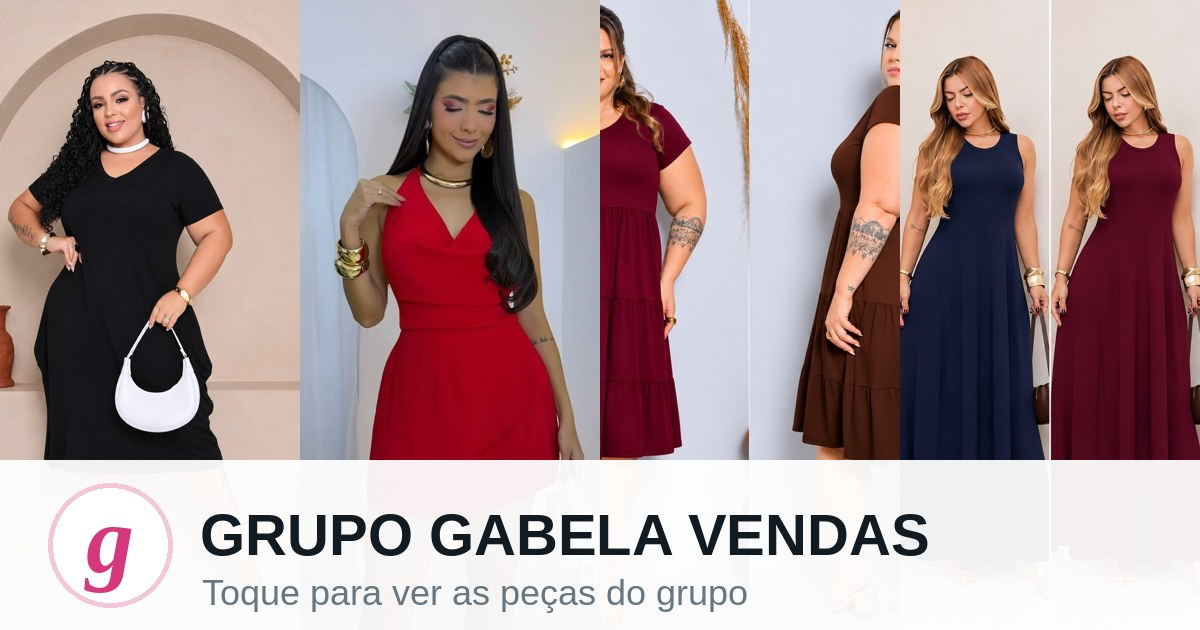
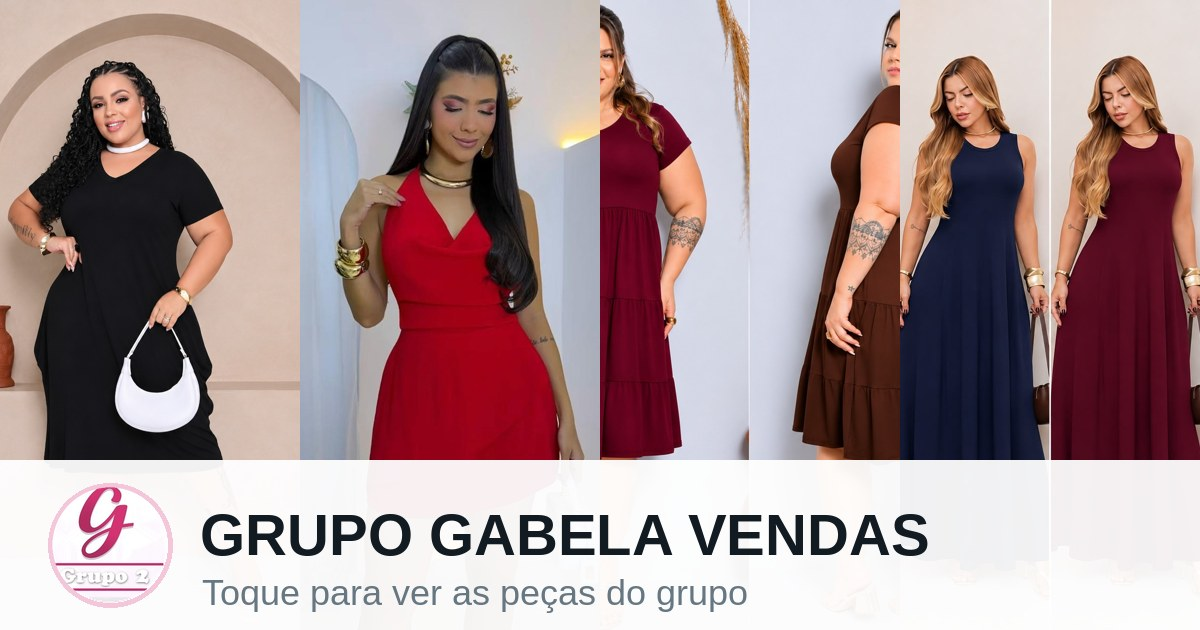
Grupo: foto do grupo e nomes de clientes no topo

Changed region(s): [[0.0308, 0.754, 0.1233, 0.9651]]

diff --git a/grupo/index.html b/grupo/index.html
@@ -19,7 +19,7 @@ header{position:sticky;top:0;z-index:5;background:linear-gradient(#F4EFE7f2 70%,
 .barra{display:flex;align-items:center;gap:10px;max-width:620px;margin:0 auto}
 .volta{display:grid;place-items:center;width:52px;height:52px;border-radius:50%;background:#fff;box-shadow:0 1px 4px #0000001a;flex:none}
 .pilula{flex:1;min-width:0;display:flex;align-items:center;gap:10px;background:#fff;border-radius:999px;padding:5px 16px 5px 5px;box-shadow:0 1px 4px #0000001a}
-.av{width:44px;height:44px;border-radius:50%;background:#fff;border:2px solid #F4C6DA;color:#D6377D;display:grid;place-items:center;font:italic 700 26px/1 Georgia,serif;flex:none}
+.av{width:46px;height:46px;border-radius:50%;object-fit:cover;background:#fff;color:#D6377D;display:grid;place-items:center;font:italic 700 26px/1 Georgia,serif;flex:none}
 .nm{flex:1;min-width:0}
 .nome{font-weight:700;font-size:18px;color:#111B21;text-transform:uppercase;line-height:1.2;white-space:nowrap;overflow:hidden;text-overflow:ellipsis}
 .st{font-size:14px;color:#667781;white-space:nowrap;overflow:hidden;text-overflow:ellipsis}
@@ -69,7 +69,7 @@ body.selecionando .zap{display:none}
 .fim{text-align:center;margin:18px auto;max-width:92%;background:#fffffff2;border-radius:8px;padding:10px;color:#54656F;font-size:16px}
 </style></head><body>
 <header>
-<div class="barra"><span class="volta"><svg viewBox="0 0 24 24" width="26" height="26" aria-hidden="true"><path fill="none" stroke="#111B21" stroke-width="2.4" stroke-linecap="round" stroke-linejoin="round" d="M15 4l-8 8 8 8"/></svg></span><div class="pilula"><div class="av">g</div><div class="nm"><div class="nome">Grupo Gabela Vendas</div><div class="st">Gabi, Carol, Bia, Lina, Márcia, Vanessa, Você</div></div></div></div>
+<div class="barra"><span class="volta"><svg viewBox="0 0 24 24" width="26" height="26" aria-hidden="true"><path fill="none" stroke="#111B21" stroke-width="2.4" stroke-linecap="round" stroke-linejoin="round" d="M15 4l-8 8 8 8"/></svg></span><div class="pilula"><img class="av" src="/grupo/avatar.png" alt=""><div class="nm"><div class="nome">Grupo Gabela Vendas</div><div class="st">Maria, Angela, Juliana, Patrícia, Fernanda, Cláudia, Rosângela, Você</div></div></div></div>
 <div class="sel"><button type="button" id="sair" aria-label="Cancelar"><svg viewBox="0 0 24 24" width="24" height="24" aria-hidden="true"><path fill="#111B21" d="M20 11H7.8l5.6-5.6L12 4l-8 8 8 8 1.4-1.4L7.8 13H20z"/></svg></button><span class="qt" id="qt">1</span><button type="button" class="mandar" id="mandar"><svg viewBox="0 0 24 24" width="24" height="24" aria-hidden="true"><path fill="#fff" d="M13.5 7.2V3.8a.6.6 0 0 1 1-.45l7 6.6a.6.6 0 0 1 0 .9l-7 6.6a.6.6 0 0 1-1-.45v-3.3c-4.9 0-8.2 1.5-10.7 4.9-.3.4-.9.15-.8-.3 1-5.2 4.3-10.3 11.5-11.1z"/></svg> Encaminhar</button></div>
 <nav class="pills"><a href="#novidades" id="menunov" class="pnov">🆕 Novidades</a><a href="#s0">Vestidos e macacões</a><a href="#s1">Shorts e saias</a><a href="#s2">Blusas</a><a href="#s3">Jeans feminino</a><a href="#s4">Calças e leggings</a><a href="#s5">Conjuntos</a><a href="#s6">Masculino</a><a href="#s7">Tênis e papetes</a><a href="#s8">Bolsas</a></nav>
 </header>

diff --git a/index.html b/index.html
@@ -19,7 +19,7 @@ header{position:sticky;top:0;z-index:5;background:linear-gradient(#F4EFE7f2 70%,
 .barra{display:flex;align-items:center;gap:10px;max-width:620px;margin:0 auto}
 .volta{display:grid;place-items:center;width:52px;height:52px;border-radius:50%;background:#fff;box-shadow:0 1px 4px #0000001a;flex:none}
 .pilula{flex:1;min-width:0;display:flex;align-items:center;gap:10px;background:#fff;border-radius:999px;padding:5px 16px 5px 5px;box-shadow:0 1px 4px #0000001a}
-.av{width:44px;height:44px;border-radius:50%;background:#fff;border:2px solid #F4C6DA;color:#D6377D;display:grid;place-items:center;font:italic 700 26px/1 Georgia,serif;flex:none}
+.av{width:46px;height:46px;border-radius:50%;object-fit:cover;background:#fff;color:#D6377D;display:grid;place-items:center;font:italic 700 26px/1 Georgia,serif;flex:none}
 .nm{flex:1;min-width:0}
 .nome{font-weight:700;font-size:18px;color:#111B21;text-transform:uppercase;line-height:1.2;white-space:nowrap;overflow:hidden;text-overflow:ellipsis}
 .st{font-size:14px;color:#667781;white-space:nowrap;overflow:hidden;text-overflow:ellipsis}
@@ -69,7 +69,7 @@ body.selecionando .zap{display:none}
 .fim{text-align:center;margin:18px auto;max-width:92%;background:#fffffff2;border-radius:8px;padding:10px;color:#54656F;font-size:16px}
 </style></head><body>
 <header>
-<div class="barra"><span class="volta"><svg viewBox="0 0 24 24" width="26" height="26" aria-hidden="true"><path fill="none" stroke="#111B21" stroke-width="2.4" stroke-linecap="round" stroke-linejoin="round" d="M15 4l-8 8 8 8"/></svg></span><div class="pilula"><div class="av">g</div><div class="nm"><div class="nome">Grupo Gabela Vendas</div><div class="st">Gabi, Carol, Bia, Lina, Márcia, Vanessa, Você</div></div></div></div>
+<div class="barra"><span class="volta"><svg viewBox="0 0 24 24" width="26" height="26" aria-hidden="true"><path fill="none" stroke="#111B21" stroke-width="2.4" stroke-linecap="round" stroke-linejoin="round" d="M15 4l-8 8 8 8"/></svg></span><div class="pilula"><img class="av" src="/grupo/avatar.png" alt=""><div class="nm"><div class="nome">Grupo Gabela Vendas</div><div class="st">Maria, Angela, Juliana, Patrícia, Fernanda, Cláudia, Rosângela, Você</div></div></div></div>
 <div class="sel"><button type="button" id="sair" aria-label="Cancelar"><svg viewBox="0 0 24 24" width="24" height="24" aria-hidden="true"><path fill="#111B21" d="M20 11H7.8l5.6-5.6L12 4l-8 8 8 8 1.4-1.4L7.8 13H20z"/></svg></button><span class="qt" id="qt">1</span><button type="button" class="mandar" id="mandar"><svg viewBox="0 0 24 24" width="24" height="24" aria-hidden="true"><path fill="#fff" d="M13.5 7.2V3.8a.6.6 0 0 1 1-.45l7 6.6a.6.6 0 0 1 0 .9l-7 6.6a.6.6 0 0 1-1-.45v-3.3c-4.9 0-8.2 1.5-10.7 4.9-.3.4-.9.15-.8-.3 1-5.2 4.3-10.3 11.5-11.1z"/></svg> Encaminhar</button></div>
 <nav class="pills"><a href="#novidades" id="menunov" class="pnov">🆕 Novidades</a><a href="#s0">Vestidos e macacões</a><a href="#s1">Shorts e saias</a><a href="#s2">Blusas</a><a href="#s3">Jeans feminino</a><a href="#s4">Calças e leggings</a><a href="#s5">Conjuntos</a><a href="#s6">Masculino</a><a href="#s7">Tênis e papetes</a><a href="#s8">Bolsas</a></nav>
 </header>

diff --git a/teste/jeito-do-grupo.html b/teste/jeito-do-grupo.html
@@ -19,7 +19,7 @@ header{position:sticky;top:0;z-index:5;background:linear-gradient(#F4EFE7f2 70%,
 .barra{display:flex;align-items:center;gap:10px;max-width:620px;margin:0 auto}
 .volta{display:grid;place-items:center;width:52px;height:52px;border-radius:50%;background:#fff;box-shadow:0 1px 4px #0000001a;flex:none}
 .pilula{flex:1;min-width:0;display:flex;align-items:center;gap:10px;background:#fff;border-radius:999px;padding:5px 16px 5px 5px;box-shadow:0 1px 4px #0000001a}
-.av{width:44px;height:44px;border-radius:50%;background:#fff;border:2px solid #F4C6DA;color:#D6377D;display:grid;place-items:center;font:italic 700 26px/1 Georgia,serif;flex:none}
+.av{width:46px;height:46px;border-radius:50%;object-fit:cover;background:#fff;color:#D6377D;display:grid;place-items:center;font:italic 700 26px/1 Georgia,serif;flex:none}
 .nm{flex:1;min-width:0}
 .nome{font-weight:700;font-size:18px;color:#111B21;text-transform:uppercase;line-height:1.2;white-space:nowrap;overflow:hidden;text-overflow:ellipsis}
 .st{font-size:14px;color:#667781;white-space:nowrap;overflow:hidden;text-overflow:ellipsis}
@@ -69,7 +69,7 @@ body.selecionando .zap{display:none}
 .fim{text-align:center;margin:18px auto;max-width:92%;background:#fffffff2;border-radius:8px;padding:10px;color:#54656F;font-size:16px}
 </style></head><body>
 <header>
-<div class="barra"><span class="volta"><svg viewBox="0 0 24 24" width="26" height="26" aria-hidden="true"><path fill="none" stroke="#111B21" stroke-width="2.4" stroke-linecap="round" stroke-linejoin="round" d="M15 4l-8 8 8 8"/></svg></span><div class="pilula"><div class="av">g</div><div class="nm"><div class="nome">Grupo Gabela Vendas</div><div class="st">Gabi, Carol, Bia, Lina, Márcia, Vanessa, Você</div></div></div></div>
+<div class="barra"><span class="volta"><svg viewBox="0 0 24 24" width="26" height="26" aria-hidden="true"><path fill="none" stroke="#111B21" stroke-width="2.4" stroke-linecap="round" stroke-linejoin="round" d="M15 4l-8 8 8 8"/></svg></span><div class="pilula"><img class="av" src="/grupo/avatar.png" alt=""><div class="nm"><div class="nome">Grupo Gabela Vendas</div><div class="st">Maria, Angela, Juliana, Patrícia, Fernanda, Cláudia, Rosângela, Você</div></div></div></div>
 <div class="sel"><button type="button" id="sair" aria-label="Cancelar"><svg viewBox="0 0 24 24" width="24" height="24" aria-hidden="true"><path fill="#111B21" d="M20 11H7.8l5.6-5.6L12 4l-8 8 8 8 1.4-1.4L7.8 13H20z"/></svg></button><span class="qt" id="qt">1</span><button type="button" class="mandar" id="mandar"><svg viewBox="0 0 24 24" width="24" height="24" aria-hidden="true"><path fill="#fff" d="M13.5 7.2V3.8a.6.6 0 0 1 1-.45l7 6.6a.6.6 0 0 1 0 .9l-7 6.6a.6.6 0 0 1-1-.45v-3.3c-4.9 0-8.2 1.5-10.7 4.9-.3.4-.9.15-.8-.3 1-5.2 4.3-10.3 11.5-11.1z"/></svg> Encaminhar</button></div>
 <nav class="pills"><a href="#novidades" id="menunov" class="pnov">🆕 Novidades</a><a href="#s0">Vestidos e macacões</a><a href="#s1">Shorts e saias</a><a href="#s2">Blusas</a><a href="#s3">Jeans feminino</a><a href="#s4">Calças e leggings</a><a href="#s5">Conjuntos</a><a href="#s6">Masculino</a><a href="#s7">Tênis e papetes</a><a href="#s8">Bolsas</a></nav>
 </header>

diff --git a/catalogo.html b/catalogo.html
@@ -1,4 +1,4 @@
-<!doctype html><html data-versao="20261120105801"><head><meta charset=utf8><meta name=viewport content="width=device-width,initial-scale=1,viewport-fit=cover"><style>:root{color-scheme:light;box-sizing:border-box;padding-top:env(safe-area-inset-top,0px);padding-bottom:env(safe-area-inset-bottom,0px)}html{scroll-padding-top:env(safe-area-inset-top,0px)}body{margin:0;padding:0;font:14px -apple-system,BlinkMacSystemFont,sans-serif;background:#fff;color:#000}img{max-width:100%}[hidden]:not([hidden=until-found i]){display:none!important}</style></head><body>
+<!doctype html><html data-versao="20261120110213"><head><meta charset=utf8><meta name=viewport content="width=device-width,initial-scale=1,viewport-fit=cover"><style>:root{color-scheme:light;box-sizing:border-box;padding-top:env(safe-area-inset-top,0px);padding-bottom:env(safe-area-inset-bottom,0px)}html{scroll-padding-top:env(safe-area-inset-top,0px)}body{margin:0;padding:0;font:14px -apple-system,BlinkMacSystemFont,sans-serif;background:#fff;color:#000}img{max-width:100%}[hidden]:not([hidden=until-found i]){display:none!important}</style></head><body>
 <title>Catálogo Gabela Atacado</title>
 <link rel="stylesheet" href="https://fonts.googleapis.com/css2?family=Bebas+Neue&family=Fredoka:wght@600;700&family=Nunito:wght@600;700;800;900&display=swap">
 <style id="estilo">
